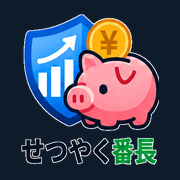
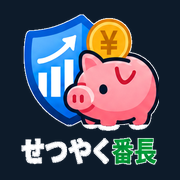
見づらさを修正：アイコンの文字を白に、番長の見切れを解消、全体を詰める
- ダークアイコンの「せつやく」が黒で読めなかったので白に
- スプラッシュの番長を画面下辺から離し、下端をぼかして見切れを解消
- 危機カード/タイル/行間を詰め、1画面に危機カード＋タイル＋見通し＋未確認が入るように
- 見出しが3行に折り返していたのを2行に（モックアップと同じ）
- タイルは重複していた事業資金を外し、モックアップどおり横3つ
- GASが一時的に落ちたとき1回だけ黙って取り直す

diff --git a/index.html b/index.html
@@ -68,38 +68,40 @@ body{font-family:"Noto Sans JP",-apple-system,"Hiragino Sans",sans-serif;color:v
 .link svg{width:15px;height:15px;stroke:currentColor;fill:none;stroke-width:2.2;stroke-linecap:round;stroke-linejoin:round}
 
 /* ============ 危機カード ============ */
+/* ★詰めて組むこと。1画面に「危機カード＋タイル＋見通し」が入らないと、
+   いちばん見せたい不足額しか見えず、かえって使いにくくなる（実際になった）。 */
 .crisis{position:relative;border:1px solid var(--redB);background:var(--redL);
-  border-radius:16px;padding:16px;margin-bottom:12px;overflow:hidden}
+  border-radius:14px;padding:13px 14px;margin-bottom:10px;overflow:hidden}
 .crisis.ok{border-color:#BBF7D0;background:#F0FDF4}
-.crH{display:flex;gap:11px;padding-right:96px}
-.bang{width:34px;height:34px;border-radius:50%;background:var(--red);display:flex;
-  align-items:center;justify-content:center;flex:0 0 auto;margin-top:2px}
+.crH{display:flex;gap:9px;padding-right:78px}
+.bang{width:28px;height:28px;border-radius:50%;background:var(--red);display:flex;
+  align-items:center;justify-content:center;flex:0 0 auto;margin-top:1px}
 .crisis.ok .bang{background:var(--green)}
-.bang svg{width:20px;height:20px;stroke:#fff;fill:none;stroke-width:2.6;stroke-linecap:round}
-.ttl{font-size:19px;font-weight:700;color:var(--red);line-height:1.4;letter-spacing:-.01em}
+.bang svg{width:17px;height:17px;stroke:#fff;fill:none;stroke-width:2.8;stroke-linecap:round}
+.ttl{font-size:17.5px;font-weight:700;color:var(--red);line-height:1.42;letter-spacing:-.02em}
 .crisis.ok .ttl{color:#15803D}
-.crSub{font-size:13px;font-weight:700;margin:9px 0 0;padding-right:96px;line-height:1.6}
-.msc{position:absolute;right:8px;top:6px;width:92px;height:auto}
-.rows{background:#fff;border:1px solid var(--line);border-radius:11px;margin-top:14px;padding:2px 13px}
-.row{display:flex;align-items:baseline;justify-content:space-between;gap:10px;
-  padding:11px 0;border-bottom:1px solid #F1F4F8}
+.crSub{font-size:12px;font-weight:700;margin:7px 0 0;padding-right:78px;line-height:1.55}
+.msc{position:absolute;right:6px;top:4px;width:80px;height:auto}
+.rows{background:#fff;border:1px solid var(--line);border-radius:10px;margin-top:11px;padding:0 12px}
+.row{display:flex;align-items:center;justify-content:space-between;gap:10px;
+  padding:8px 0;border-bottom:1px solid #F1F4F8}
 .row:last-child{border-bottom:0}
-.rowL{font-size:12.5px;color:var(--sub)}
-.rowV{font-size:17px;font-weight:700;white-space:nowrap}
+.rowL{font-size:11.5px;color:var(--sub);line-height:1.35}
+.rowV{font-size:15.5px;font-weight:700;white-space:nowrap}
 .row.dg .rowL{color:var(--red);font-weight:700}
-.row.dg .rowV{color:var(--red)}
-.cta{width:100%;margin-top:13px;padding:14px;border:0;border-radius:11px;background:var(--red);
-  color:#fff;font-family:inherit;font-size:15px;font-weight:700;cursor:pointer;
+.row.dg .rowV{color:var(--red);font-size:16.5px}
+.cta{width:100%;margin-top:11px;padding:12px;border:0;border-radius:10px;background:var(--red);
+  color:#fff;font-family:inherit;font-size:14.5px;font-weight:700;cursor:pointer;
   display:flex;align-items:center;justify-content:center;gap:6px}
-.cta svg{width:16px;height:16px;stroke:currentColor;fill:none;stroke-width:2.4;stroke-linecap:round;stroke-linejoin:round}
+.cta svg{width:15px;height:15px;stroke:currentColor;fill:none;stroke-width:2.4;stroke-linecap:round;stroke-linejoin:round}
 
-/* ============ 3つの数字タイル ============ */
-.tiles{display:grid;grid-template-columns:1fr 1fr;gap:9px;margin-bottom:12px}
-.tile{border:1px solid var(--line);border-radius:13px;padding:11px 11px 12px;background:#fff;min-width:0}
-.tile .sqi{width:26px;height:26px;border-radius:8px;margin-bottom:7px}
-.tile .sqi svg{width:15px;height:15px}
-.tileL{font-size:10.5px;color:var(--sub);line-height:1.4;min-height:29px}
-.tileV{font-size:17px;font-weight:700;margin-top:4px;white-space:nowrap;
+/* ============ 数字タイル（モックアップと同じ横3つ） ============ */
+.tiles{display:grid;grid-template-columns:repeat(3,1fr);gap:7px;margin-bottom:10px}
+.tile{border:1px solid var(--line);border-radius:11px;padding:9px;background:#fff;min-width:0}
+.tile .sqi{width:22px;height:22px;border-radius:7px;margin-bottom:5px}
+.tile .sqi svg{width:13px;height:13px}
+.tileL{font-size:9.5px;color:var(--sub);line-height:1.35;min-height:26px}
+.tileV{font-size:15px;font-weight:700;margin-top:2px;white-space:nowrap;
   overflow:hidden;text-overflow:ellipsis}
 
 /* ============ 見通し ============ */
@@ -191,8 +193,14 @@ td.l.soon{color:var(--red);font-weight:700}
 .spName i{font-style:normal;color:var(--green)}
 .spTag{font-size:14px;font-weight:700;color:#334155;margin-top:7px;
   animation:up .6s .22s ease-out both}
-.spMascot{position:absolute;bottom:0;width:230px;max-width:62vw;height:auto;
-  object-fit:contain;mix-blend-mode:multiply;
+/* ★画面の下辺にくっつけないこと。ブランド素材の番長は胸から上の「ステッカー」で、
+   下辺に接するとキャラが見切れて見える（実際に見切れて見えた）。
+   全体が入る大きさで、下に余白を残して置く。 */
+.spMascot{width:210px;max-width:58vw;height:auto;object-fit:contain;
+  margin:auto 0 11vh;mix-blend-mode:multiply;
+  /* 素材はステッカー型で下端が直線に切れている。そのまま出すと四角く見えるのでぼかす */
+  -webkit-mask-image:linear-gradient(#000 82%, rgba(0,0,0,0));
+  mask-image:linear-gradient(#000 82%, rgba(0,0,0,0));
   animation:up .7s .3s ease-out both, float 3.4s 1s ease-in-out infinite}
 /* 動画が再生されているときは、CSSの揺れを止める（動画側の動きと二重にしない） */
 .sp.hasVideo .spMascot{animation:up .7s .3s ease-out both}
@@ -240,7 +248,7 @@ td.l.soon{color:var(--red);font-weight:700}
   .row:last-child{border-right:0}
   .rowV{font-size:21px;margin-top:5px}
   .cta{width:auto;padding:13px 26px;margin-left:auto}
-  .tiles{grid-template-columns:repeat(4,1fr);gap:12px}
+  .tiles{grid-template-columns:repeat(3,1fr);gap:12px}
   .tile{padding:14px}
   .tile .sqi{width:34px;height:34px}.tile .sqi svg{width:18px;height:18px}
   .tileL{font-size:11.5px}.tileV{font-size:22px}
@@ -493,7 +501,6 @@ function render() {
     <div class="rows">
       <div class="row"><span class="rowL">${esc(d.mode.main)}</span><span class="rowV">${yen(d.funds.main)}</span></div>
       <div class="row"><span class="rowL">次回のカード引落（${esc(d.funds.due)}）</span><span class="rowV">−${yen(d.funds.card).slice(1)}</span></div>
-      <div class="row"><span class="rowL">入金予定</span><span class="rowV">${d.income.active ? d.income.active + '件' : '登録なし'}</span></div>
       <div class="row ${ng ? 'dg' : ''}"><span class="rowL">${ng ? '不足見込み額' : '引落後の残高'}</span><span class="rowV">${syen(short)}</span></div>
     </div>
     <button class="cta" data-go="act">対策を確認${arw()}</button>
@@ -502,8 +509,8 @@ function render() {
   /* --- 数字タイル --- */
   const tile = (tone, icon, label, val) =>
     `<div class="tile">${sq(icon, tone)}<div class="tileL">${label}</div><div class="tileV">${val}</div></div>`;
+  // 事業資金は危機カードに出ているので、タイルは重複させず3つに絞る
   const tiles = `<div class="tiles sect" data-tab="home">
-    ${tile('blue','wallet', esc(d.mode.main), yen(d.funds.main))}
     ${tile('amber','life', esc(d.mode.sub), yen(d.funds.sub))}
     ${tile('green','down', '今月の入金<br>（取得済み分）', yen(d.month.inc))}
     ${tile('red','up', '今月の支払<br>（取得済み分）', yen(d.month.exp))}
@@ -706,7 +713,10 @@ document.addEventListener('click', async ev => {
 async function load() {
   if (!KEY) { askKey(''); return; }
   try {
-    const d = await api('stats');
+    // GAS はときどき一時的に落ちる。1回だけ黙って取り直す
+    let d;
+    try { d = await api('stats'); }
+    catch (_1) { await new Promise(r => setTimeout(r, 2500)); d = await api('stats'); }
     if (!d || !d.ok) throw new Error((d && d.error) || '取得できませんでした');
     DATA = d; render();
   } catch (e) {
